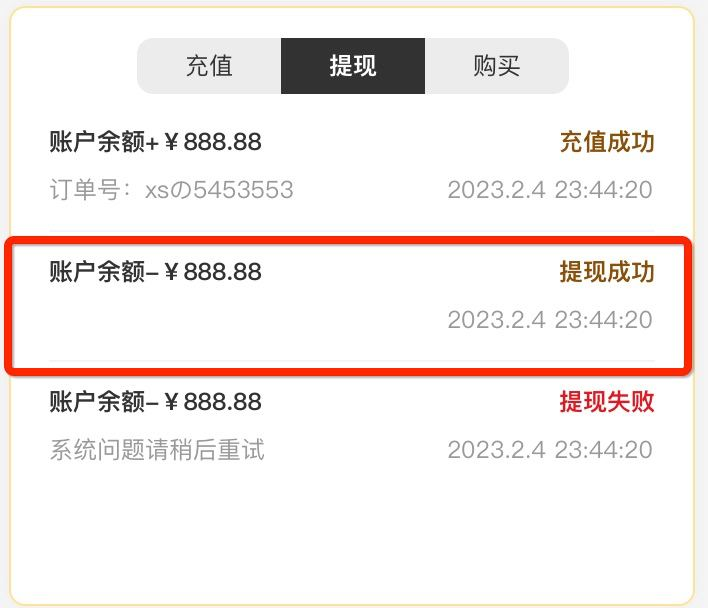
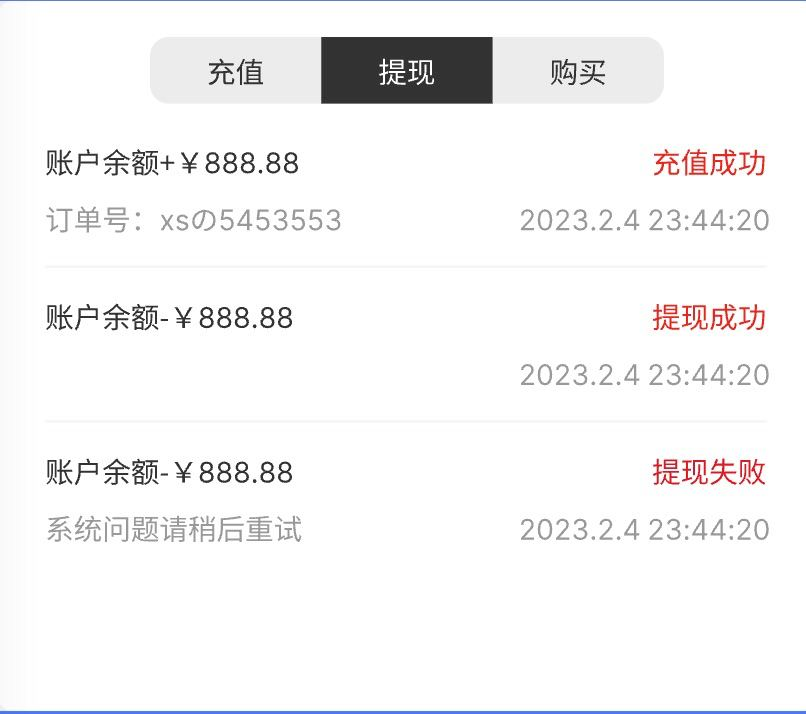
no message

diff --git a/MataShop/🇨🇳ServiceLogic/储宝/View/推广奖励子控件UI/MSPromotionIncentiveCVCell.m b/MataShop/🇨🇳ServiceLogic/储宝/View/推广奖励子控件UI/MSPromotionIncentiveCVCell.m
@@ -28,11 +28,6 @@
 
 - (void)drawRect:(CGRect)rect {
     [super drawRect:rect];
-    
-//    [self outline:UIBorderSideTypeTop | UIBorderSideTypeLeft | UIBorderSideTypeRight
-//      borderColor:JobsBlueColor
-//      borderWidth:1];
-
     [self outlineByBezierPath:UIBorderSideTypeTop
             cellBackgroundCor:JobsGrayColor
                   borderColor:JobsBlackColor
@@ -49,23 +44,17 @@
         [collectionView registerCollectionViewCellClass:MSPromotionIncentiveCVCell.class];
         cell = (MSPromotionIncentiveCVCell *)[collectionView collectionViewCellClass:MSPromotionIncentiveCVCell.class forIndexPath:indexPath];
     }
-    
-//    [cell layerBorderCor:RGBA_COLOR(225, 225, 144, 1) andBorderWidth:1];
-    
     // UICollectionViewCell圆切角
-//    cell.contentView.layer.cornerRadius = cell.layer.cornerRadius = JobsWidth(8);
-//    cell.contentView.layer.borderWidth = cell.layer.borderWidth = JobsWidth(1);
-//    cell.contentView.layer.borderColor = cell.layer.borderColor = RGBA_COLOR(255, 225, 144, 1).CGColor;
-//    cell.contentView.layer.masksToBounds = cell.layer.masksToBounds = YES;
-
+//    [cell.contentView cornerCutToCircleWithCornerRadius:JobsWidth(8)];
+//    [cell.contentView layerBorderCor:JobsCor(@"#D2D5E0") andBorderWidth:JobsWidth(.5f)];
+    cell.contentView.backgroundColor = cell.backgroundColor = JobsWhiteColor;
     cell.indexPath = indexPath;
-    
     return cell;
 }
 #pragma mark —— BaseCellProtocol
 /// 具体由子类进行复写【数据定UI】【如果所传参数为基本数据类型，那么包装成对象NSNumber进行转化承接】
 -(void)richElementsInCellWithModel:(MSPromotionIncentiveDetailModel *_Nullable)model{
-    self.contentView.backgroundColor = RGBA_COLOR(210, 213, 224, 0.2f);
+    
     self.promotionIncentiveDetailModel = model;
     if(model.indexPath.row){
         self.myIncentiveDetailNameLab.alpha = 1;
@@ -83,8 +72,8 @@
 -(UILabel *)titleLab{
     if(!_titleLab){
         _titleLab = UILabel.new;
-        _titleLab.textColor = RGBA_COLOR(51, 51, 51, 1);
-        _titleLab.font = UIFontWeightBoldSize(16);
+        _titleLab.textColor = JobsCor(@"#333333");
+        _titleLab.font = UIFontWeightSemiboldSize(16);
         [self.contentView addSubview:_titleLab];
         [_titleLab mas_makeConstraints:^(MASConstraintMaker *make) {
             make.left.equalTo(self.contentView).offset(JobsWidth(20));
@@ -96,12 +85,11 @@
     return _titleLab;
 }
 
-
 -(UILabel *)myIncentiveDetailNameLab{
     if(!_myIncentiveDetailNameLab){
         _myIncentiveDetailNameLab = UILabel.new;
-        _myIncentiveDetailNameLab.textColor = RGBA_COLOR(136, 79, 2, 1);
-        _myIncentiveDetailNameLab.font = UIFontWeightRegularSize(12);
+        _myIncentiveDetailNameLab.textColor = JobsCor(@"#EA2918");
+        _myIncentiveDetailNameLab.font = UIFontWeightSemiboldSize(12);
         [self.contentView addSubview:_myIncentiveDetailNameLab];
         [_myIncentiveDetailNameLab mas_makeConstraints:^(MASConstraintMaker *make) {
             make.left.equalTo(self.contentView).offset(JobsWidth(20));
@@ -117,7 +105,7 @@
 -(UILabel *)userNameLab{
     if(!_userNameLab){
         _userNameLab = UILabel.new;
-        _userNameLab.textColor = RGBA_COLOR(153, 153, 153, 1);
+        _userNameLab.textColor = JobsCor(@"#999999");
         _userNameLab.font = UIFontWeightRegularSize(12);
         [self.contentView addSubview:_userNameLab];
         [_userNameLab mas_makeConstraints:^(MASConstraintMaker *make) {
@@ -133,7 +121,7 @@
 -(UILabel *)timeLab{
     if(!_timeLab){
         _timeLab = UILabel.new;
-        _timeLab.textColor = RGBA_COLOR(153, 153, 153, 1);
+        _timeLab.textColor = JobsCor(@"#999999");
         _timeLab.font = UIFontWeightRegularSize(12);
         [self.contentView addSubview:_timeLab];
         [_timeLab mas_makeConstraints:^(MASConstraintMaker *make) {

diff --git a/MataShop/🇨🇳ServiceLogic/储宝/ViewController/MSPromotionIncentiveVC/MSPromotionIncentiveVC.m b/MataShop/🇨🇳ServiceLogic/储宝/ViewController/MSPromotionIncentiveVC/MSPromotionIncentiveVC.m
@@ -74,30 +74,22 @@
 - (NSInteger)collectionView:(nonnull UICollectionView *)collectionView
      numberOfItemsInSection:(NSInteger)section {
     MSPromotionIncentiveModel *promotionIncentiveModel = (MSPromotionIncentiveModel *)self.dataMutArr[section].data;
-    return 1;
-//    return promotionIncentiveModel.incentiveDetailModelMutArr.count + 1;
+    return promotionIncentiveModel.incentiveDetailModelMutArr.count + 1;
 }
 
 - (NSInteger)numberOfSectionsInCollectionView:(UICollectionView *)collectionView {
-    return 1;
+    return self.dataMutArr.count;
 }
 
 - (nonnull __kindof UICollectionViewCell *)collectionView:(nonnull UICollectionView *)collectionView
                                    cellForItemAtIndexPath:(nonnull NSIndexPath *)indexPath {
-    @jobs_weakify(self)
     MSPromotionIncentiveModel *promotionIncentiveModel = (MSPromotionIncentiveModel *)self.dataMutArr[indexPath.section].data;
     promotionIncentiveModel.indexPath = indexPath;
     MSPromotionIncentiveCVCell *cell = [MSPromotionIncentiveCVCell cellWithCollectionView:collectionView forIndexPath:indexPath];
-    
-    if(indexPath.row){
-        MSPromotionIncentiveDetailModel *incentiveDetailModel = (MSPromotionIncentiveDetailModel *)[promotionIncentiveModel.incentiveDetailModelMutArr objectAtIndex:indexPath.row - 1];
-        incentiveDetailModel.indexPath = indexPath;
-        [cell richElementsInCellWithModel:promotionIncentiveModel.incentiveDetailModelMutArr[indexPath.row - 1]];
-    }else{
-        MSPromotionIncentiveDetailModel *incentiveDetailModel = (MSPromotionIncentiveDetailModel *)[promotionIncentiveModel.incentiveDetailModelMutArr objectAtIndex:indexPath.row];
-        incentiveDetailModel.indexPath = indexPath;
-        [cell richElementsInCellWithModel:promotionIncentiveModel.incentiveDetailModelMutArr[indexPath.row]];
-    }return cell;
+    MSPromotionIncentiveDetailModel *promotionIncentiveDetailModel = promotionIncentiveModel.incentiveDetailModelMutArr[!indexPath.row ? : indexPath.row - 1];
+    promotionIncentiveDetailModel.indexPath = indexPath;
+    [cell richElementsInCellWithModel:promotionIncentiveDetailModel];
+    return cell;
 }
 #pragma mark —— UICollectionViewDelegate
 /// 允许选中时，高亮

diff --git a/MataShop/🇨🇳ServiceLogic/储宝/View/结息记录子控件UI/MSInterestSettleRecordCVCell.m b/MataShop/🇨🇳ServiceLogic/储宝/View/结息记录子控件UI/MSInterestSettleRecordCVCell.m
@@ -40,14 +40,13 @@
     // UICollectionViewCell圆切角
     [cell.contentView cornerCutToCircleWithCornerRadius:JobsWidth(8)];
     [cell.contentView layerBorderCor:JobsCor(@"#D2D5E0") andBorderWidth:JobsWidth(.5f)];
-
+    cell.contentView.backgroundColor = cell.backgroundColor = JobsWhiteColor;
     cell.indexPath = indexPath;
     return cell;
 }
 #pragma mark —— BaseCellProtocol
 /// 具体由子类进行复写【数据定UI】【如果所传参数为基本数据类型，那么包装成对象NSNumber进行转化承接】
 -(void)richElementsInCellWithModel:(UIViewModel *_Nullable)model{
-    self.backgroundColor = self.contentView.backgroundColor = RGBA_COLOR(210, 213, 224, 0.2);
     if([model isKindOfClass:UIViewModel.class]){
         self.interestSettleRecordModel = model.data;
         self.prodNameLab.jobsResetTitle(self.interestSettleRecordModel.prodName);/// 产品名
@@ -310,7 +309,7 @@
 -(UITextView *)prodTipsTextView{
     if(!_prodTipsTextView){
         _prodTipsTextView = UITextView.new;
-        _prodTipsTextView.backgroundColor = self.backgroundColor;
+        _prodTipsTextView.backgroundColor = JobsClearColor;
         _prodTipsTextView.font = UIFontWeightRegularSize(9);
         _prodTipsTextView.textColor = RGBA_COLOR(102, 102, 102, 1);
         _prodTipsTextView.text = self.interestSettleRecordModel.prodTimeTips;
@@ -391,8 +390,8 @@
         case ProdStyle03:{/// 产品未到期（不可赎回）
             _moneyBackBtn.jobsResetTitle(Internationalization(@"我要赎回"));
             _moneyBackBtn.jobsResetBaseBackgroundColor(JobsCor(@"#D4D4D4"));
-            [_moneyBackBtn jobsSetBtntitleFont:UIFontWeightRegularSize(14) btnTitleCor:JobsCor(@"#D4D4D4")];
-            [_moneyBackBtn layerBorderCor:JobsCor(@"#D4D4D4") andBorderWidth:JobsWidth(.5f)];
+            [_moneyBackBtn jobsSetBtntitleFont:UIFontWeightRegularSize(14) btnTitleCor:JobsCor(@"#FFFFFF")];
+            [_moneyBackBtn layerBorderCor:JobsCor(@"#DDDDDD") andBorderWidth:JobsWidth(.5f)];
             _moneyBackBtn.userInteractionEnabled = NO;
         } break;
             

diff --git a/MataShop/🇨🇳ServiceLogic/储宝/ViewController/MSInterestSettleRecordVC/MSInterestSettleRecordVC.m b/MataShop/🇨🇳ServiceLogic/储宝/ViewController/MSInterestSettleRecordVC/MSInterestSettleRecordVC.m
@@ -75,7 +75,6 @@
 
 - (nonnull __kindof UICollectionViewCell *)collectionView:(nonnull UICollectionView *)collectionView
                                    cellForItemAtIndexPath:(nonnull NSIndexPath *)indexPath {
-    @jobs_weakify(self)
     MSInterestSettleRecordCVCell *cell = [MSInterestSettleRecordCVCell cellWithCollectionView:collectionView forIndexPath:indexPath];
     [cell richElementsInCellWithModel:self.dataMutArr[indexPath.section]];
     return cell;
@@ -165,7 +164,7 @@ minimumInteritemSpacingForSectionAtIndex:(NSInteger)section{
     if (!_collectionView) {
         _collectionView = [UICollectionView.alloc initWithFrame:CGRectZero
                                            collectionViewLayout:self.layout];
-        _collectionView.backgroundColor = HEXCOLOR(0xFCFBFB);
+        _collectionView.backgroundColor = JobsCor(@"#F5F5F5");
         [self dataLinkByCollectionView:_collectionView];
         _collectionView.showsVerticalScrollIndicator = NO;
         [_collectionView registerCollectionViewClass];

diff --git a/MataShop/🇨🇳ServiceLogic/储宝/View/产品选购子控件UI/MSProdSelectCVCell.m b/MataShop/🇨🇳ServiceLogic/储宝/View/产品选购子控件UI/MSProdSelectCVCell.m
@@ -40,9 +40,8 @@
     // UICollectionViewCell圆切角
     [cell.contentView cornerCutToCircleWithCornerRadius:JobsWidth(8)];
     [cell.contentView layerBorderCor:JobsCor(@"#D2D5E0") andBorderWidth:JobsWidth(.5f)];
-
     cell.indexPath = indexPath;
-    
+
     return cell;
 }
 #pragma mark —— BaseCellProtocol
